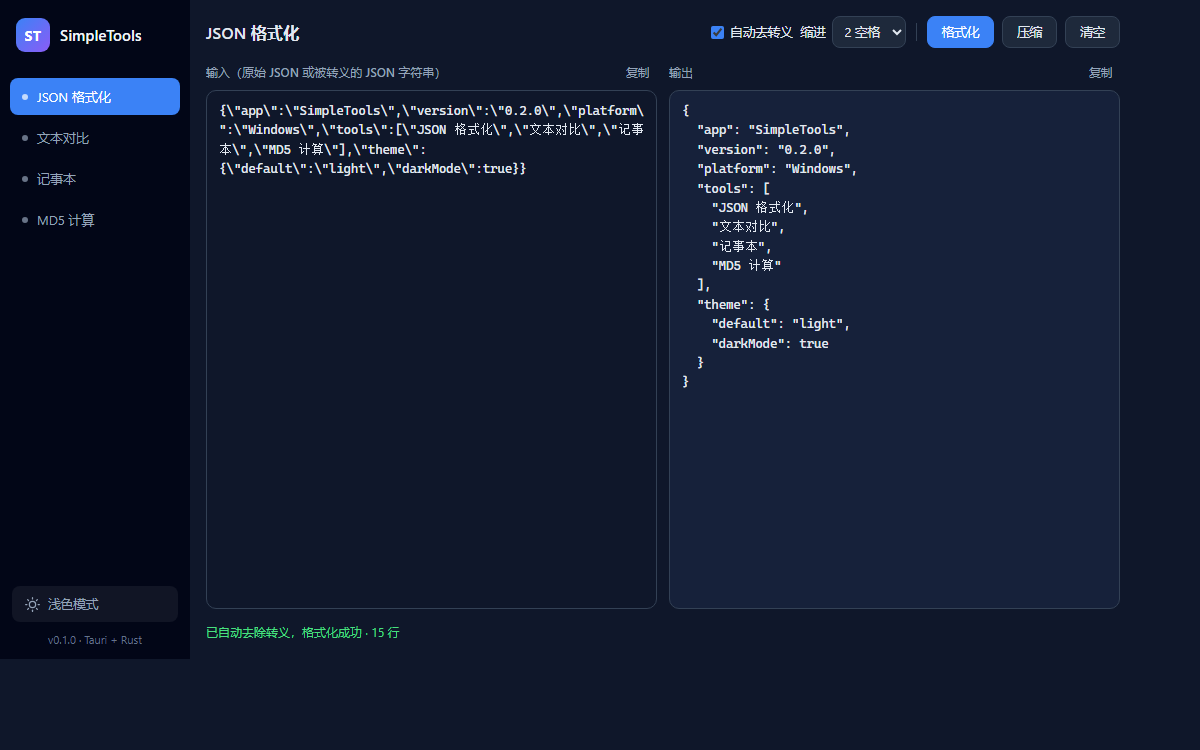
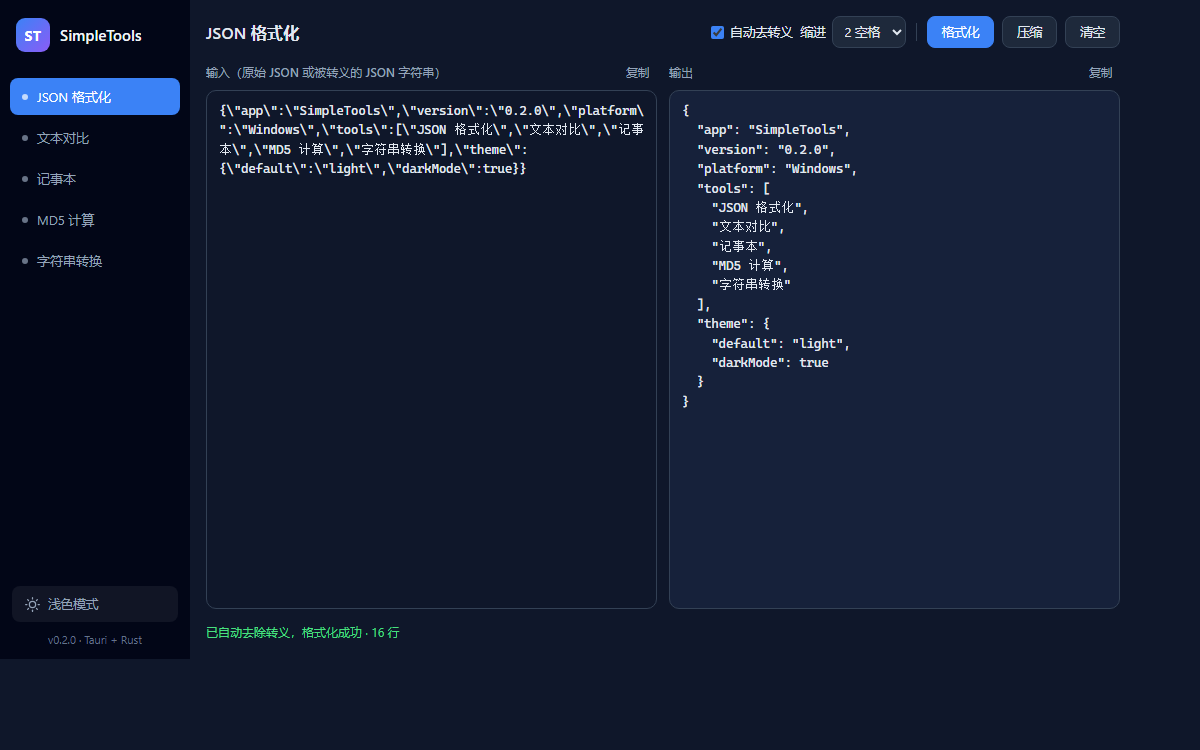
feat: v0.2.0 新增字符串转换（大小写 + 驼峰 / 下划线 / 中划线 / 常量）
- 输入即生成 8 种转换结果（全大写 / 全小写 / 首字母大写 / 驼峰 / 大驼峰 / 下划线 / 中划线 / 常量），逐行复制

- 自动识别下划线、中划线、空格、点分隔与已有驼峰，多行按行转换

- 版本升级 0.1.0 -> 0.2.0（package.json / tauri.conf.json / Cargo.toml）

- README 同步更新（效果截图、功能清单、更新日志）

diff --git a/src/modules/str.js b/src/modules/str.js
@@ -1,0 +1,122 @@
+/* ===== 字符串转换模块（大小写 + 命名风格，输入即生成） ===== */
+(function () {
+  'use strict';
+
+  const inputEl = document.getElementById('str-input');
+  const resultsEl = document.getElementById('str-results');
+
+  // ---------- 转换逻辑 ----------
+
+  // 拆词：支持下划线 / 中划线 / 空格 / 点分隔；同时拆分已有驼峰（含连续大写缩写）
+  function tokenize(s) {
+    return s
+      .replace(/([a-z0-9])([A-Z])/g, '$1 $2')     // userName -> user Name
+      .replace(/([A-Z]+)([A-Z][a-z])/g, '$1 $2')  // HTTPServer -> HTTP Server
+      .split(/[_\-\s.]+/)
+      .filter(function (w) { return w.length > 0; });
+  }
+
+  function capitalize(w) {
+    return w.charAt(0).toUpperCase() + w.slice(1).toLowerCase();
+  }
+
+  function lowerAll(tokens) {
+    return tokens.map(function (w) { return w.toLowerCase(); });
+  }
+
+  const TRANSFORMS = [
+    {
+      key: 'upper', label: '全部大写',
+      fn: function (s) { return s.toUpperCase(); }
+    },
+    {
+      key: 'lower', label: '全部小写',
+      fn: function (s) { return s.toLowerCase(); }
+    },
+    {
+      key: 'title', label: '首字母大写',
+      fn: function (s) { return tokenize(s).map(capitalize).join(' '); }
+    },
+    {
+      key: 'camel', label: '驼峰命名',
+      fn: function (s) {
+        return tokenize(s).map(function (w, i) {
+          return i === 0 ? w.toLowerCase() : capitalize(w);
+        }).join('');
+      }
+    },
+    {
+      key: 'pascal', label: '大驼峰命名',
+      fn: function (s) { return tokenize(s).map(capitalize).join(''); }
+    },
+    {
+      key: 'snake', label: '下划线命名',
+      fn: function (s) { return lowerAll(tokenize(s)).join('_'); }
+    },
+    {
+      key: 'kebab', label: '中划线命名',
+      fn: function (s) { return lowerAll(tokenize(s)).join('-'); }
+    },
+    {
+      key: 'constant', label: '常量命名',
+      fn: function (s) {
+        return tokenize(s).map(function (w) { return w.toUpperCase(); }).join('_');
+      }
+    }
+  ];
+
+  const state = {}; // key -> 当前结果文本
+
+  // ---------- 渲染 ----------
+
+  function buildRows() {
+    resultsEl.innerHTML = TRANSFORMS.map(function (t) {
+      return (
+        '<div class="str-row" data-key="' + t.key + '">' +
+        '<span class="str-label">' + t.label + '</span>' +
+        '<span class="str-value empty">—</span>' +
+        '<button class="pane-copy" title="复制' + t.label + '结果">复制</button>' +
+        '</div>'
+      );
+    }).join('');
+  }
+
+  function render() {
+    const text = inputEl.value;
+    TRANSFORMS.forEach(function (t) {
+      if (!text) {
+        state[t.key] = '';
+      } else {
+        // 多行输入按行分别转换，保留原行数
+        state[t.key] = text.split('\n').map(function (line) {
+          return t.fn(line);
+        }).join('\n');
+      }
+      const val = state[t.key];
+      const el = resultsEl.querySelector('.str-row[data-key="' + t.key + '"] .str-value');
+      el.textContent = val || '—';
+      el.classList.toggle('empty', !val);
+    });
+  }
+
+  // ---------- 事件 ----------
+
+  inputEl.addEventListener('input', render);
+
+  resultsEl.addEventListener('click', async function (e) {
+    const btn = e.target.closest('.pane-copy');
+    if (!btn) return;
+    const row = btn.closest('.str-row');
+    const val = state[row.dataset.key];
+    if (!val) {
+      window.toast('暂无内容可复制');
+      return;
+    }
+    await window.copyText(val, '已复制「' + row.querySelector('.str-label').textContent + '」');
+  });
+
+  // ---------- 初始化 ----------
+
+  buildRows();
+  render();
+})();

diff --git a/src/index.html b/src/index.html
@@ -35,6 +35,9 @@
       <button class="nav-item" data-panel="md5">
         <span class="nav-dot"></span>MD5 计算
       </button>
+      <button class="nav-item" data-panel="str">
+        <span class="nav-dot"></span>字符串转换
+      </button>
     </nav>
     <div class="sidebar-footer">
       <button class="theme-toggle" id="theme-toggle" title="切换深色 / 浅色模式">
@@ -56,7 +59,7 @@
         </svg>
         <span id="theme-label">深色模式</span>
       </button>
-      <div class="version">v0.1.0 · Tauri + Rust</div>
+      <div class="version">v0.2.0 · Tauri + Rust</div>
     </div>
   </aside>
 
@@ -197,6 +200,22 @@
         </div>
       </div>
     </section>
+
+    <!-- ===== 字符串转换 ===== -->
+    <section id="panel-str" class="panel">
+      <header class="panel-header">
+        <h2>字符串转换</h2>
+        <div class="panel-actions">
+          <span class="str-tip">大小写 / 驼峰 / 下划线 / 中划线 / 常量，输入即生成</span>
+        </div>
+      </header>
+      <div class="str-layout">
+        <div class="pane-label"><span>输入（多行将按行分别转换）</span></div>
+        <textarea id="str-input" class="str-input" spellcheck="false"
+          placeholder="输入或粘贴字符串，例如：user_login_count"></textarea>
+        <div class="str-results" id="str-results"></div>
+      </div>
+    </section>
   </main>
 
   <div id="toast" class="toast"></div>
@@ -217,6 +236,7 @@
   <script src="modules/text-diff.js"></script>
   <script src="modules/notes.js"></script>
   <script src="modules/md5.js"></script>
+  <script src="modules/str.js"></script>
   <script src="main.js"></script>
 </body>
 </html>

diff --git a/src/styles.css b/src/styles.css
@@ -937,6 +937,70 @@ textarea[readonly] {
   line-height: 1.5;
 }
 
+/* ===== 字符串转换 ===== */
+.str-tip {
+  font-size: 12.5px;
+  color: var(--text-dim);
+}
+
+.str-layout {
+  flex: 1;
+  display: flex;
+  flex-direction: column;
+  gap: 10px;
+  min-height: 0;
+}
+
+.str-input {
+  flex: none;
+  height: 84px;
+}
+
+.str-results {
+  flex: 1;
+  min-height: 0;
+  display: flex;
+  flex-direction: column;
+  gap: 8px;
+  overflow-y: auto;
+}
+
+.str-row {
+  flex: none;
+  display: flex;
+  align-items: center;
+  gap: 10px;
+  padding: 7px 12px;
+  background: var(--panel-bg);
+  border: 1px solid var(--border);
+  border-radius: 10px;
+  min-height: 38px;
+}
+
+.str-label {
+  flex: none;
+  width: 82px;
+  font-size: 12.5px;
+  color: var(--text-dim);
+}
+
+.str-value {
+  flex: 1;
+  min-width: 0;
+  font-family: var(--mono);
+  font-size: 13px;
+  letter-spacing: 0.3px;
+  color: var(--text);
+  overflow: hidden;
+  text-overflow: ellipsis;
+  white-space: nowrap;
+  user-select: text;
+}
+
+.str-value.empty {
+  color: var(--text-dim);
+}
+
 /* ===== 确认弹窗 ===== */
 .modal-mask {
   position: fixed;

diff --git a/README.md b/README.md
@@ -29,6 +29,12 @@
 
 ![MD5 计算](screenshots/md5.png)
 
+### 字符串转换（大小写 + 命名风格）
+
+输入一个字符串，自动生成全大写 / 全小写 / 首字母大写 / 驼峰 / 大驼峰 / 下划线 / 中划线 / 常量共 8 种结果，点击行尾即可复制；自动识别下划线、中划线、空格、点分隔及已有驼峰，多行输入按行转换。
+
+![字符串转换](screenshots/str.png)
+
 ### 暗黑模式
 
 侧边栏底部一键切换，选择自动记忆，切换带平滑过渡。
@@ -41,6 +47,7 @@
 - [x] **文本对比** —— 行级 + 字符级差异高亮（左侧绿、右侧红）；忽略首尾空白选项；交换左右 / 清空；`Ctrl+Enter` 快捷对比
 - [x] **记事本** —— 左列表右详情；标题 + 正文；本地缓存自动保存（原子写入防损坏）；`Ctrl+N` 新建；列表拖动排序；删除弹窗确认；复制正文；数据备份
 - [x] **MD5 计算** —— 字符串实时计算（UTF-8）；文件点击选择或拖入计算（1 MB 分块流式，不占内存）；小写 / 大写 / Base64 三种输出格式；一键复制
+- [x] **字符串转换** —— 输入即生成 8 种格式：全大写 / 全小写 / 首字母大写 / 驼峰（camelCase）/ 大驼峰（PascalCase）/ 下划线（snake_case）/ 中划线（kebab-case）/ 常量（CONSTANT_CASE）；自动识别下划线、中划线、空格、点分隔与已有驼峰；多行按行转换；逐行一键复制
 - [x] **界面主题** —— 默认简约白色；暗黑模式一键切换并记忆；切换平滑过渡
 - [x] **全局体验** —— 无边框简约布局、Toast 轻提示、剪贴板复制三级降级（Tauri 插件 → 浏览器 API → 兜底方案）
 
@@ -61,7 +68,7 @@ npm run build
 
 构建产物：
 
-- 安装包：`src-tauri/target/release/bundle/nsis/SimpleTools_0.1.0_x64-setup.exe`
+- 安装包：`src-tauri/target/release/bundle/nsis/SimpleTools_0.2.0_x64-setup.exe`
 - 免安装单文件：`src-tauri/target/release/SimpleTools.exe`
 
 > 首次构建约需几分钟（Rust 编译）；前端为静态资源，修改 `src/` 后需重新执行 `npm run build` 才生效。
@@ -102,7 +109,8 @@ SimpleTools/
 │       ├── json-format.js  # JSON 格式化
 │       ├── text-diff.js    # 文本对比（LCS diff）
 │       ├── notes.js        # 记事本（拖动排序 + 自动保存）
-│       └── md5.js          # MD5 计算（字符串 + 文件）
+│       ├── md5.js          # MD5 计算（字符串 + 文件）
+│       └── str.js          # 字符串转换（大小写 + 命名风格）
 ├── src-tauri/            # Rust 后端
 │   ├── Cargo.toml
 │   ├── tauri.conf.json
@@ -118,6 +126,10 @@ SimpleTools/
 ```
 
 ## 更新日志
+
+### v0.2.0（2026-10-11）
+
+- 新增「字符串转换」工具：大小写转换（全大写 / 全小写 / 首字母大写）、命名风格互转（驼峰 / 大驼峰 / 下划线 / 中划线 / 常量）；自动识别下划线、中划线、空格、点分隔及已有驼峰；多行按行转换，结果一键复制
 
 ### v0.1.0（2026-10-11）
 
